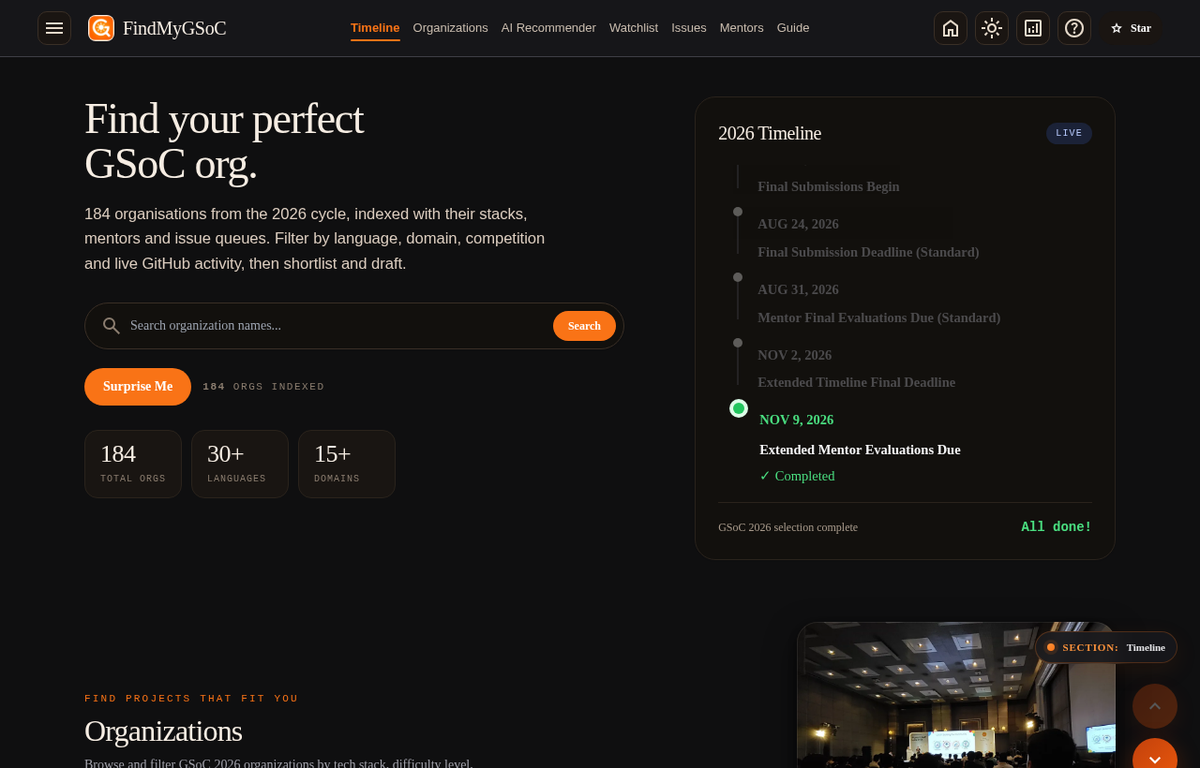
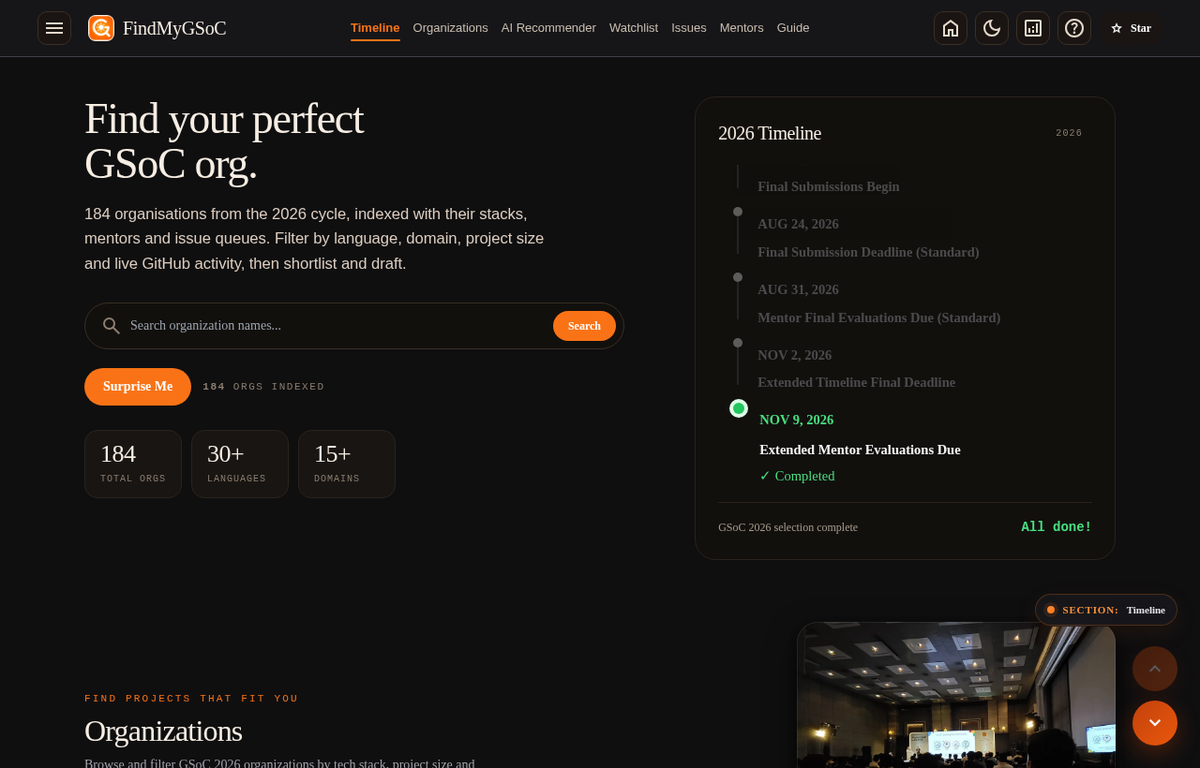
docs: refresh the README screenshots and drop the false Live badge (#2108)
* docs: refresh the organisation panel screenshot

The README still showed the panel with COMPETITION and CODEBASE cards, which no
longer exist: those two labels were replaced by project size, accepted projects,
proposals to read and contact channels, all from real data. Captured from the
current app with the local icon font, at the same 1200x768 the other screenshots
use.

* docs: refresh the dark screenshot, and drop the false "Live" badge

The dark screenshot still showed the old hero copy ("competition") and a Live
badge on the timeline. The copy was already fixed in the page, so the image was
just stale; the badge was still in the markup, and it contradicts the same
card's footer, which says the 2026 selection is complete. It reads 2026 now, in
the muted style, and the screenshot is regenerated from the current page.

---------

diff --git a/index.html b/index.html
@@ -2590,7 +2590,9 @@ body{background:var(--rd-bg);color:var(--rd-ink)}
     <div class="rounded-[22px] border border-[color:var(--rd-line-soft)] bg-[color:var(--rd-bg)] p-6 shadow-sm">
       <div class="flex items-center justify-between mb-5">
         <h3 class="font-[family-name:var(--rd-display)] text-xl font-medium tracking-tight text-[color:var(--rd-ink)]">2026 Timeline</h3>
-        <span class="font-[family-name:var(--rd-mono)] text-[10px] uppercase tracking-[0.12em] px-2.5 py-1 rounded-full bg-[color:var(--rd-blue-soft)] text-[color:var(--rd-blue-dark)]">Live</span>
+        <!-- Not "Live": this is a fixed 2026 schedule, and the footer of this card
+             says the selection is complete. A live badge would be a false claim. -->
+        <span class="font-[family-name:var(--rd-mono)] text-[10px] uppercase tracking-[0.12em] px-2.5 py-1 rounded-full bg-[color:var(--rd-surface-2)] text-[color:var(--rd-faint)]">2026</span>
       </div>
       <div id="timeline-milestones" aria-label="GSoC timeline milestones"
         class="space-y-3 overflow-y-auto max-h-[340px] pl-4 no-scrollbar focus:outline-none focus:ring-2 focus:ring-orange-300 rounded-lg"></div>
